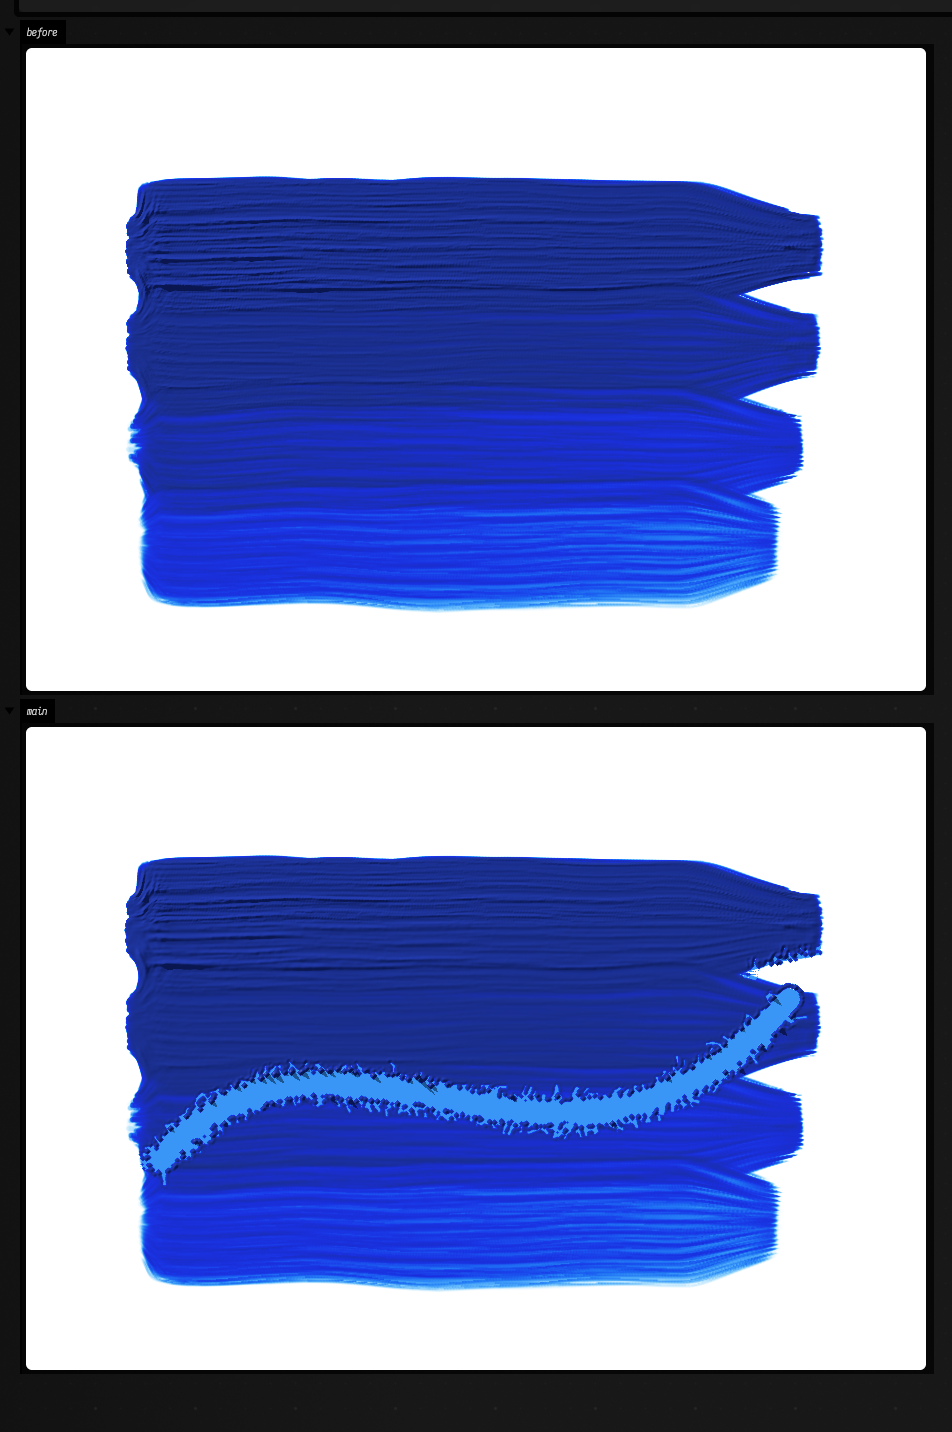
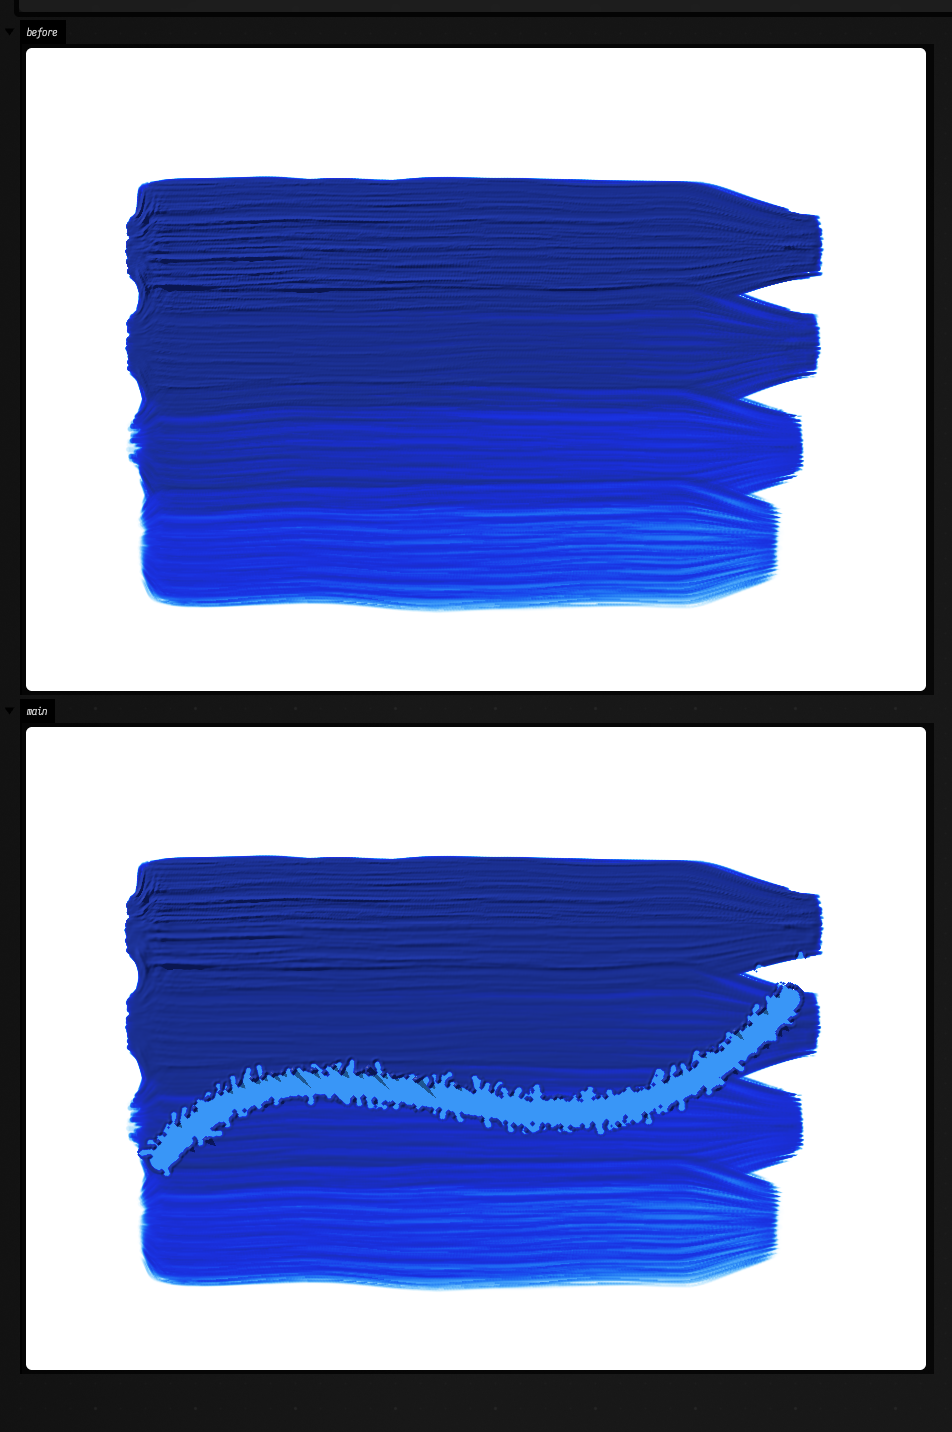
Paint: bolder blow tendrils in the figures, recaptured

Changed region(s): [[0.1523, 0.6453, 0.8529, 0.8296]]

diff --git a/public/docs/paint_canvas.md b/public/docs/paint_canvas.md
@@ -515,7 +515,7 @@ display("main", canvas.png(wet = true, light = PaintLight.Raking))
 The same puff of air at one point, into the same film, with three viscosity contrasts: 1.5, 8 and
 200, left to right.
 
-```diffstatic_runner {data-lang=kotlin screenshot="assets/paint_canvas/blow_contrast.png" alt="a canvas with a thick blue band and three blown spots in a row. each spot is a small round clearing. Around the left one, fine fingers stay close and dense; around the middle one they reach a little further; from the right one, thin, pale, branching fingers run far out into the paint" wait="30" capture="box" open-outputs="true" padding="20" requires="paint" name="blow_contrast" embed=true scale=1}
+```diffstatic_runner {data-lang=kotlin screenshot="assets/paint_canvas/blow_contrast.png" alt="a canvas with a thick blue band and three blown spots in a row. each spot is a small round clearing with thin, pale, branching fingers running out from it into the paint; the left spot's fingers stay closer to it and the right spot's reach furthest" wait="30" capture="box" open-outputs="true" padding="20" requires="paint" name="blow_contrast" embed=true scale=1}
 :::static
 val canvas = PaintCanvas(900, aspect = 2.4, seed = 12)
 val brush = canvas.brush(BrushKind.HogFlat, width = 130.0)
